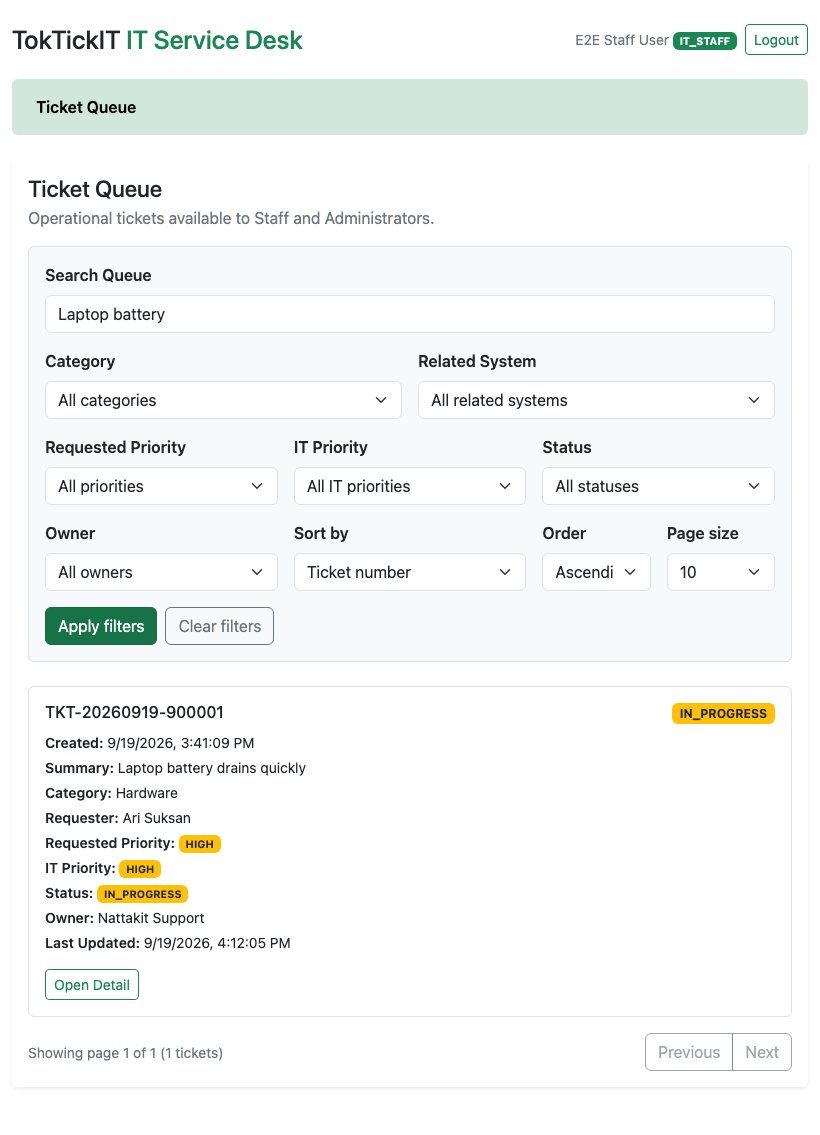
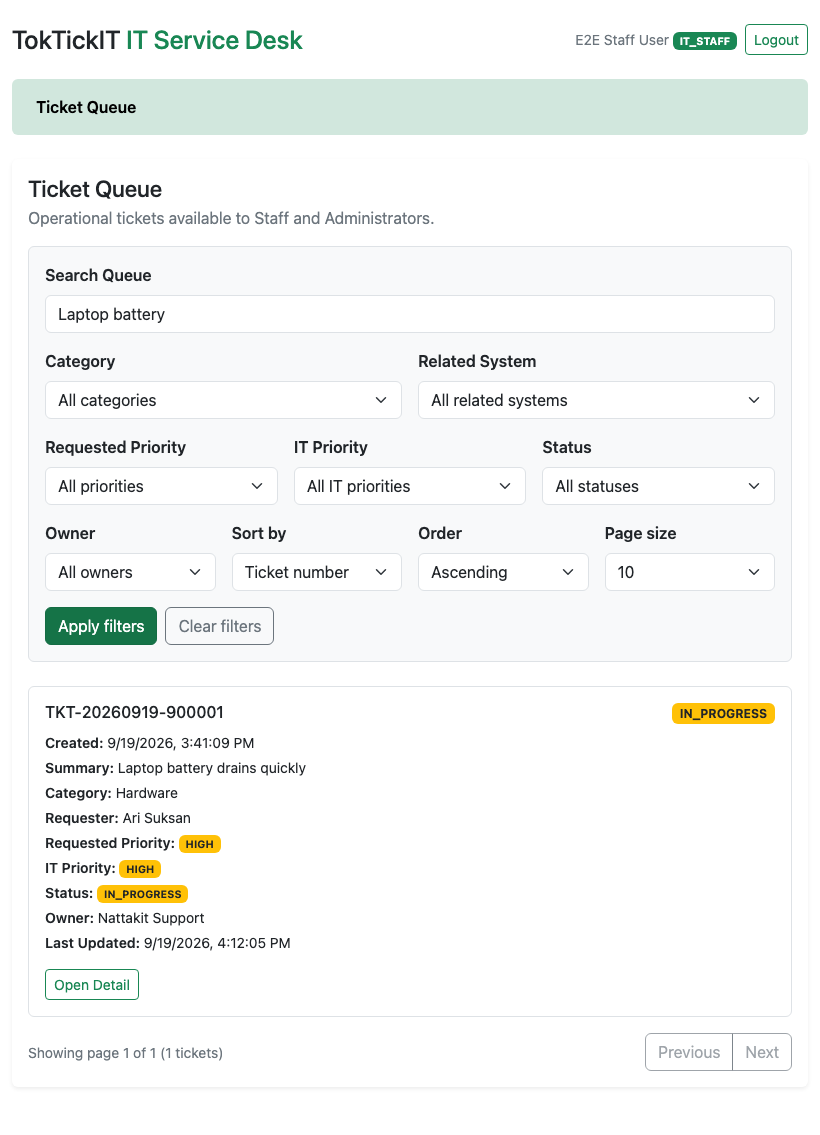
Address staff queue review feedback

Changed region(s): [[0.2744, 0.4626, 0.6098, 0.5242], [0.6707, 0.4626, 0.9146, 0.5242]]

diff --git a/server/src/ticketQuery.ts b/server/src/ticketQuery.ts
@@ -10,6 +10,8 @@ export type TicketSortField = (typeof ticketSortFields)[number];
 export const ticketPageSizes = [10, 25, 50] as const;
 export type TicketPageSize = (typeof ticketPageSizes)[number];
 
+const MAX_SIGNED_INT32 = 2_147_483_647;
+
 export type TicketListQuery = {
   search?: string;
   categoryId?: number;
@@ -42,7 +44,11 @@ function readPositiveInteger(query: Record<string, unknown>, key: string): numbe
   if (raw === null || !/^\d+$/.test(raw)) return null;
 
   const value = Number(raw);
-  return Number.isSafeInteger(value) && value > 0 ? value : null;
+  return Number.isSafeInteger(value) && value > 0 && value <= MAX_SIGNED_INT32 ? value : null;
+}
+
+function escapeLikePattern(value: string): string {
+  return value.replace(/[\\%_]/g, "\\$&");
 }
 
 export function parseTicketListQuery(query: Record<string, unknown>): QueryParseResult {
@@ -110,18 +116,20 @@ export function buildTicketWhere(
   requesterId: number,
   options: TicketListQuery,
 ): Prisma.TicketWhereInput {
+  const search = options.search ? escapeLikePattern(options.search) : undefined;
+
   return {
     requesterId,
     ...(options.categoryId ? { categoryId: options.categoryId } : {}),
     ...(options.relatedSystemId ? { relatedSystemId: options.relatedSystemId } : {}),
     ...(options.requestedPriority ? { requestedPriority: options.requestedPriority } : {}),
     ...(options.currentStatus ? { currentStatus: options.currentStatus } : {}),
-    ...(options.search
+    ...(search
       ? {
           OR: [
-            { ticketNumber: { contains: options.search, mode: "insensitive" } },
-            { summary: { contains: options.search, mode: "insensitive" } },
-            { description: { contains: options.search, mode: "insensitive" } },
+            { ticketNumber: { contains: search, mode: "insensitive" } },
+            { summary: { contains: search, mode: "insensitive" } },
+            { description: { contains: search, mode: "insensitive" } },
           ],
         }
       : {}),
@@ -222,7 +230,13 @@ export function parseStaffTicketListQuery(query: Record<string, unknown>): Staff
   } else if (ownerId !== undefined) {
     if (!/^\d+$/.test(ownerId)) return { error: "Invalid query parameters" };
     const value = Number(ownerId);
-    if (!Number.isSafeInteger(value) || value <= 0) return { error: "Invalid query parameters" };
+    if (
+      !Number.isSafeInteger(value) ||
+      value <= 0 ||
+      value > MAX_SIGNED_INT32
+    ) {
+      return { error: "Invalid query parameters" };
+    }
     parsedOwnerId = value;
   }
 
@@ -248,6 +262,8 @@ export function parseStaffTicketListQuery(query: Record<string, unknown>): Staff
 export function buildStaffTicketWhere(
   options: StaffTicketListQuery,
 ): Prisma.TicketWhereInput {
+  const search = options.search ? escapeLikePattern(options.search) : undefined;
+
   return {
     ...(options.categoryId ? { categoryId: options.categoryId } : {}),
     ...(options.relatedSystemId ? { relatedSystemId: options.relatedSystemId } : {}),
@@ -255,13 +271,13 @@ export function buildStaffTicketWhere(
     ...(options.itPriority ? { itPriority: options.itPriority } : {}),
     ...(options.currentStatus ? { currentStatus: options.currentStatus } : {}),
     ...(options.ownerId !== undefined ? { ownerId: options.ownerId } : {}),
-    ...(options.search
+    ...(search
       ? {
           OR: [
-            { ticketNumber: { contains: options.search, mode: "insensitive" } },
-            { summary: { contains: options.search, mode: "insensitive" } },
-            { description: { contains: options.search, mode: "insensitive" } },
-            { requester: { name: { contains: options.search, mode: "insensitive" } } },
+            { ticketNumber: { contains: search, mode: "insensitive" } },
+            { summary: { contains: search, mode: "insensitive" } },
+            { description: { contains: search, mode: "insensitive" } },
+            { requester: { name: { contains: search, mode: "insensitive" } } },
           ],
         }
       : {}),

diff --git a/server/tests/lab-03/staff-queue.api.test.ts b/server/tests/lab-03/staff-queue.api.test.ts
@@ -62,6 +62,12 @@ describe("GET /api/staff/tickets", () => {
       createdTicketIds.push(created.id);
       if (firstTicketId === 0) firstTicketId = created.id;
     }
+
+    // Keep the fixture timestamps identical so the API's id tiebreaker is observable.
+    await prisma.ticket.updateMany({
+      where: { id: { in: createdTicketIds } },
+      data: { updatedAt: new Date("2026-09-19T00:00:00.000Z") },
+    });
   });
 
   afterAll(async () => {
@@ -122,11 +128,53 @@ describe("GET /api/staff/tickets", () => {
     expect(pageTwo.body.items[0].summary).toContain("ticket 10");
   });
 
+  it("uses the default sort and id tiebreaker for equal updatedAt values", async () => {
+    const response = await request(app)
+      .get(`/api/staff/tickets?search=${encodeURIComponent(runToken)}&pageSize=25`)
+      .set("Cookie", staffCookie);
+
+    expect(response.status).toBe(200);
+    expect(response.body.items).toHaveLength(11);
+    expect(response.body.items.map((item: { id: number }) => item.id)).toEqual(
+      [...createdTicketIds].sort((left, right) => right - left),
+    );
+    expect(new Set(response.body.items.map((item: { updatedAt: string }) => item.updatedAt)).size).toBe(1);
+  });
+
+  it("searches ticket fields and requester names while treating wildcards literally", async () => {
+    const searches = [
+      "TKT-ISSUE6-",
+      `${runToken} ticket`,
+      `${runToken} description`,
+      "Issue 4 REQUESTER fixture",
+    ];
+
+    for (const search of searches) {
+      const response = await request(app)
+        .get("/api/staff/tickets")
+        .query({ search })
+        .set("Cookie", staffCookie);
+      expect(response.status).toBe(200);
+      expect(response.body.pagination.totalItems).toBeGreaterThan(0);
+    }
+
+    for (const wildcardSearch of ["%", "_"]) {
+      const wildcard = await request(app)
+        .get("/api/staff/tickets")
+        .query({ search: wildcardSearch })
+        .set("Cookie", staffCookie);
+      expect(wildcard.status).toBe(200);
+      expect(wildcard.body.pagination.totalItems).toBe(0);
+    }
+  });
+
   it("rejects unsupported query values with a safe 400 response", async () => {
     for (const query of [
       "itPriority=INVALID",
       "currentStatus=INVALID",
       "ownerId=abc",
+      "ownerId=2147483648",
+      "categoryId=2147483648",
       "sort=summary",
       "pageSize=5",
     ]) {
@@ -158,6 +206,7 @@ describe("GET /api/staff/tickets", () => {
       .get(`/api/staff/tickets/${firstTicketId}`)
       .set("Cookie", requesterCookie);
     expect(requesterDetail.status).toBe(403);
+    expect(requesterDetail.body).toEqual({ error: "Forbidden" });
 
     const missing = await request(app)
       .get("/api/staff/tickets/999999999")

diff --git a/client/src/StaffTicketQueue.tsx b/client/src/StaffTicketQueue.tsx
@@ -323,7 +323,7 @@ export default function StaffTicketQueue({ onOpenTicket, visible = true }: Staff
                 {statuses.map((status) => <option key={status} value={status}>{status}</option>)}
               </select>
             </div>
-            <div className="col-md-4">
+            <div className="col-md-3">
               <label className="form-label fw-semibold" htmlFor="staff-owner">Owner</label>
               <select
                 id="staff-owner"
@@ -335,7 +335,7 @@ export default function StaffTicketQueue({ onOpenTicket, visible = true }: Staff
                 <option value="unassigned">Unassigned only</option>
               </select>
             </div>
-            <div className="col-md-4">
+            <div className="col-md-3">
               <label className="form-label fw-semibold" htmlFor="staff-sort">Sort by</label>
               <select
                 id="staff-sort"
@@ -351,7 +351,7 @@ export default function StaffTicketQueue({ onOpenTicket, visible = true }: Staff
                 <option value="currentStatus">Status</option>
               </select>
             </div>
-            <div className="col-md-2">
+            <div className="col-md-3">
               <label className="form-label fw-semibold" htmlFor="staff-order">Order</label>
               <select
                 id="staff-order"
@@ -363,7 +363,7 @@ export default function StaffTicketQueue({ onOpenTicket, visible = true }: Staff
                 <option value="asc">Ascending</option>
               </select>
             </div>
-            <div className="col-md-2">
+            <div className="col-md-3">
               <label className="form-label fw-semibold" htmlFor="staff-page-size">Page size</label>
               <select
                 id="staff-page-size"

diff --git a/docs/lab-03/tests.md b/docs/lab-03/tests.md
@@ -107,7 +107,7 @@ checks remain planned for their corresponding issues.
 
 These results are from `feature/lab3-06-staff-ticket-queue`:
 
-- Server: `npm test -- --reporter=dot` — 61 tests passed across 22 files.
+- Server: `npm test -- --reporter=dot` — 63 tests passed across 22 files.
 - Client: `npm test -- --reporter=dot` — 44 tests passed across 11 files.
 - Server and client TypeScript production builds passed.
 - Playwright: `npm run test:e2e` — 5 tests passed, including the authenticated
@@ -140,8 +140,8 @@ they remain regression coverage and are included in the full Playwright result a
 | AC-06 | API-07, API-08, UI-04, E2E-02 |
 | AC-07 | API-07, API-08, UI-04, REG-01, REG-02, E2E-02 |
 | AC-08 | API-09, UI-04, E2E-02 |
-| AC-09 | UNIT-03, API-10, UI-05, E2E-03 |
-| AC-10 | UNIT-03, API-05, API-10, UI-05, E2E-03 |
+| AC-09 | UNIT-03, API-10, UI-05, E2E-03, E2E-05 |
+| AC-10 | UNIT-03, API-05, API-10, UI-05, E2E-03, E2E-05 |
 | AC-11 | API-11, UI-06, E2E-03 |
 | AC-12 | UNIT-04, API-11, API-12, UI-06, E2E-03 |
 | AC-13 | API-13, UI-06, E2E-03 |
